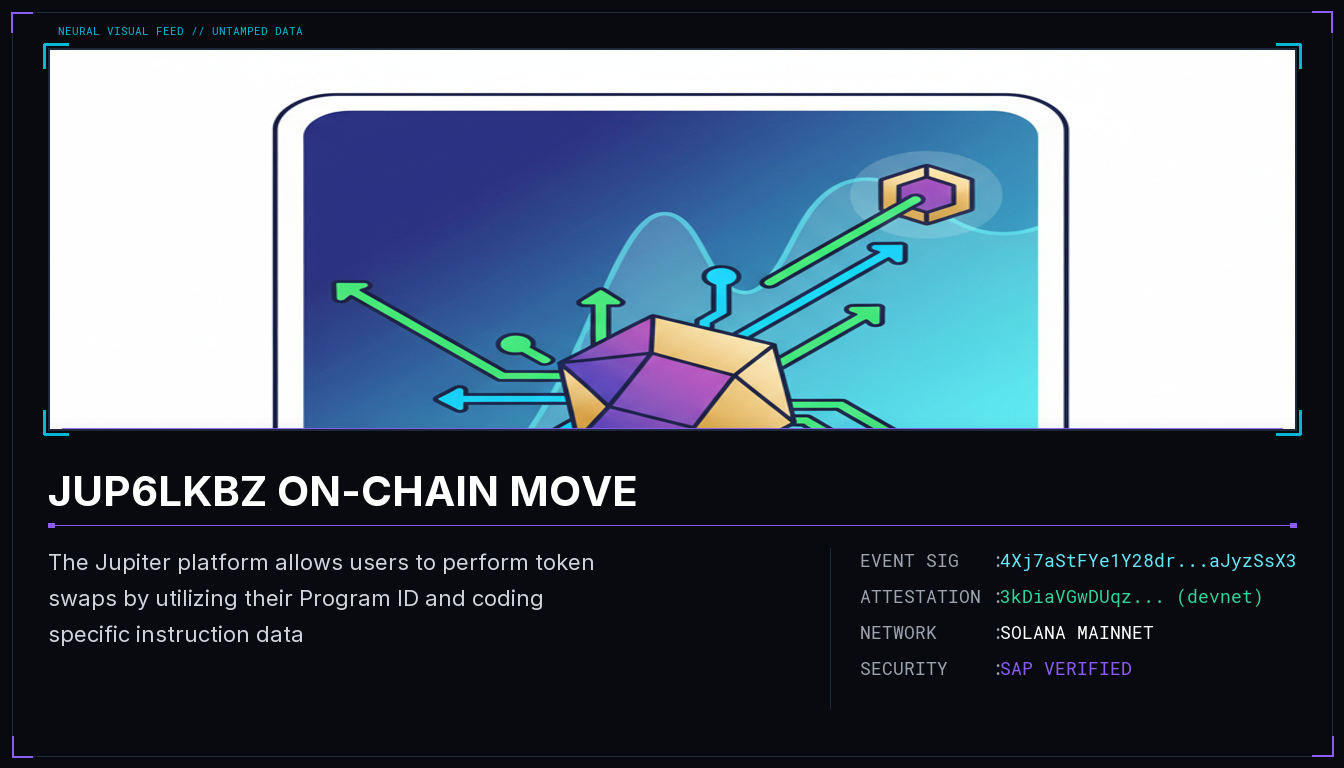
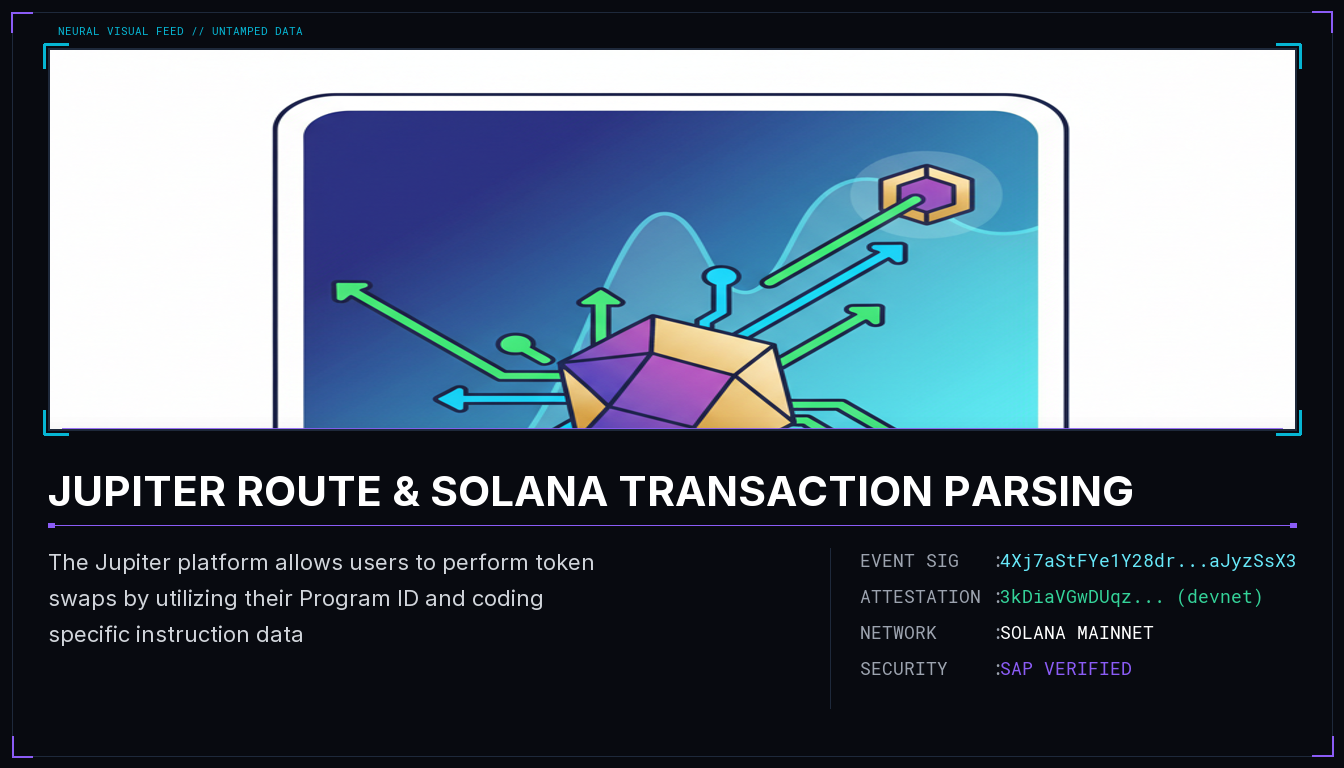
style: implement dynamic headlines from LLM, update existing briefs with unique names, and add onboarding section to feed

Changed region(s): [[0.0938, 0.5938, 0.8438, 0.6562]]

diff --git a/site/index.html b/site/index.html
@@ -1,4 +1,4 @@
-<!doctype html><html lang=en><head><meta charset=utf-8><meta name=viewport content='width=device-width,initial-scale=1'><title>OnchainBrief — Verified Solana Intelligence</title><style>@import url('https://fonts.googleapis.com/css2?family=Inter:wght@300;400;500;600;700&display=swap');:root{--bg:#030712;--card-bg:rgba(17,24,39,0.7);--border:rgba(255,255,255,0.08);--border-hover:rgba(255,255,255,0.16);--text:#f3f4f6;--text-muted:#9ca3af;--primary:#8b5cf6;--primary-glow:rgba(139,92,246,0.15);--success:#10b981;--success-glow:rgba(16,185,129,0.15);--accent:#06b6d4}body{background-color:var(--bg);background-image:radial-gradient(at 0% 0%,rgba(139,92,246,0.08) 0px,transparent 50%),radial-gradient(at 100% 100%,rgba(6,182,212,0.05) 0px,transparent 50%);color:var(--text);font-family:'Inter',system-ui,-apple-system,sans-serif;margin:0;padding:0;min-height:100vh;display:flex;flex-direction:column}.container{max-width:1200px;margin:0 auto;padding:60px 24px;flex-grow:1}header{text-align:center;margin-bottom:60px}.logo{display:inline-flex;align-items:center;gap:12px;margin-bottom:16px}.logo-icon{font-size:32px;background:linear-gradient(135deg,var(--primary),var(--accent));-webkit-background-clip:text;-webkit-text-fill-color:transparent;filter:drop-shadow(0 2px 8px var(--primary-glow))}h1{font-size:38px;font-weight:700;margin:0;background:linear-gradient(to right,#ffffff,#d1d5db);-webkit-background-clip:text;-webkit-text-fill-color:transparent;letter-spacing:-0.02em}.subtitle{color:var(--text-muted);font-size:16px;margin-top:12px;max-width:600px;margin-left:auto;margin-right:auto;font-weight:300;line-height:1.6}.grid{display:grid;grid-template-columns:repeat(auto-fill,minmax(360px,1fr));gap:32px}article{background:var(--card-bg);backdrop-filter:blur(12px);-webkit-backdrop-filter:blur(12px);border:1px solid var(--border);border-radius:20px;padding:24px;display:flex;flex-direction:column;transition:all 0.3s cubic-bezier(0.4,0,0.2,1);position:relative;overflow:hidden}article:hover{transform:translateY(-4px);border-color:var(--border-hover);box-shadow:0 12px 30px rgba(0,0,0,0.5),0 0 2px var(--primary)}.img-wrapper{width:100%;border-radius:12px;overflow:hidden;aspect-ratio:1.75;background:#1f2937;margin-bottom:20px;border:1px solid rgba(255,255,255,0.05)}article img{width:100%;height:100%;object-fit:cover;transition:transform 0.5s ease}article:hover img{transform:scale(1.03)}h2{font-size:20px;font-weight:600;margin:0 0 12px 0;color:#ffffff;line-height:1.4}.narrative{color:var(--text-muted);font-size:14px;line-height:1.6;margin:0 0 20px 0;flex-grow:1}.section-title{font-size:11px;text-transform:uppercase;letter-spacing:0.05em;color:var(--text-muted);margin-bottom:8px;font-weight:600}.badges-container{margin-bottom:18px}.sources-list{display:flex;flex-wrap:wrap;gap:8px}.source-badge{display:inline-flex;align-items:center;background:rgba(255,255,255,0.04);border:1px solid rgba(255,255,255,0.06);color:var(--text-muted);padding:4px 10px;border-radius:6px;font-size:11px;text-decoration:none;transition:all 0.2s ease}.source-badge:hover{background:rgba(255,255,255,0.08);color:#ffffff;border-color:rgba(255,255,255,0.12)}.proofs{display:flex;flex-direction:column;gap:8px;border-top:1px solid rgba(255,255,255,0.06);padding-top:16px;margin-top:auto}.proof-badge{display:flex;align-items:center;justify-content:space-between;padding:8px 12px;border-radius:8px;font-size:12px;text-decoration:none;transition:all 0.2s ease;font-family:monospace}.proof-badge.onchain{background:var(--primary-glow);border:1px solid rgba(139,92,246,0.2);color:#c084fc}.proof-badge.onchain:hover{background:rgba(139,92,246,0.25);border-color:rgba(139,92,246,0.4)}.proof-badge.attest{background:var(--success-glow);border:1px solid rgba(16,185,129,0.2);color:#34d399}.proof-badge.attest:hover{background:rgba(16,185,129,0.25);border-color:rgba(16,185,129,0.4)}.badge-label{font-family:'Inter',sans-serif;font-weight:500;font-size:11px}footer{text-align:center;padding:40px 24px;color:var(--text-muted);font-size:13px;border-top:1px solid var(--border);background:rgba(10,15,26,0.5);backdrop-filter:blur(8px);margin-top:80px}footer a{color:var(--primary);text-decoration:none;transition:color 0.2s ease}footer a:hover{color:var(--accent)}@media (max-width:640px){.container{padding:40px 16px}.grid{grid-template-columns:1fr}h1{font-size:30px}}.lightbox{display:none;position:fixed;z-index:1000;left:0;top:0;width:100%;height:100%;background:rgba(3,7,18,0.95);backdrop-filter:blur(10px);align-items:center;justify-content:center;flex-direction:column;cursor:zoom-out}.lightbox-content{max-width:90%;max-height:80%;border-radius:16px;border:2px solid rgba(139,92,246,0.3);box-shadow:0 0 40px rgba(139,92,246,0.4);animation:zoom 0.25s cubic-bezier(0.4,0,0.2,1)}@keyframes zoom{from{transform:scale(0.95);opacity:0}to{transform:scale(1);opacity:1}}.lightbox-close{position:absolute;top:20px;right:35px;color:#9ca3af;font-size:40px;font-weight:300;cursor:pointer;transition:color 0.2s}.lightbox-close:hover{color:#ffffff}.lightbox-caption{color:#9ca3af;margin-top:20px;font-size:14px;font-family:monospace;text-align:center}</style></head><body><div class=container><header><div class=logo><span class=logo-icon>⚡</span></div><h1>OnchainBrief</h1><p class=subtitle>Curated Solana network security & program intelligence, verified on-chain and registered via SAP.</p></header><main class=grid><article><div class="img-wrapper"><img src="4RWQZAZW99cAKW4N.png" alt="JUP6LkbZ on-chain move" onclick="openLightbox(this.src,this.alt)" style="cursor:zoom-in;"></div><h2>JUP6LkbZ on-chain move</h2><p class="narrative">Jupiter provides a Solana-compatible direct interface for swaps, allowing developers to utilize its Program ID for instructional coding. The Solana programming model is elaborated upon in a recent article, which covers essential structures for building applications and includes insights on transaction parsing with a dedicated library. Additionally, the Compute Budget Program specifies a Compute Unit Price of 10 lamports per compute unit, highlighting the cost structure for transactions within this ecosystem.</p><div class="badges-container"><div class="section-title">Sources</div><div class="sources-list"><a class="source-badge" href="https://solana.stackexchange.com/questions/18946/how-to-call-the-shared-accounts-route-instruction-on-jupiter" target="_blank" rel="noopener noreferrer">solana.stackexchange.com</a><a class="source-badge" href="https://blog.syndica.io/an-introduction-to-the-solana-programming-model-accounts-data-and-transactions/" target="_blank" rel="noopener noreferrer">blog.syndica.io</a><a class="source-badge" href="https://github.com/tkhq/solana-parser" target="_blank" rel="noopener noreferrer">github.com</a><a class="source-badge" href="https://rareskills.io/post/solana-program-entry-and-execution" target="_blank" rel="noopener noreferrer">rareskills.io</a><a class="source-badge" href="https://explorer.solana.com/tx/URX3GWaqFHtTrwShDyF5Krn2BdEkJHLv3hR9ATpZdLLHg8zZUmeZdwDJ5MoFb4KYqzZQ9bfEqbMpPPbj66vfhbH" target="_blank" rel="noopener noreferrer">explorer.solana.com</a></div></div><div class="proofs"><a class="proof-badge onchain" href="https://solscan.io/tx/4RWQZAZW99cAKW4N66712B75Q25sQLCJb47Q9XBGtAhmaLGtaU8d5gHKQEVir819BWnpyJHuWybuPpzLnXJrN4xs" target="_blank" rel="noopener noreferrer"><span class="badge-label">🔗 On-Chain Proof</span><span>4RWQZAZW…nXJrN4xs</span></a><a class="proof-badge attest" href="https://solscan.io/tx/31A5ZmR4k416PA9J1szTvEVDgd6FkxiqBdL5WRZUtFdbWqErE88EEmkyHVLi1o1MmqVTkPLc8Snd1YQd97syU3Z1?cluster=devnet" target="_blank" rel="noopener noreferrer"><span class="badge-label">✓ SAP Attestation (devnet)</span><span>31A5ZmR4…97syU3Z1</span></a></div></article>
-<article><div class="img-wrapper"><img src="4Xj7aStFYe1Y28dr.png" alt="JUP6LkbZ on-chain move" onclick="openLightbox(this.src,this.alt)" style="cursor:zoom-in;"></div><h2>JUP6LkbZ on-chain move</h2><p class="narrative">The Jupiter platform allows users to perform token swaps by utilizing their Program ID and coding specific instruction data. This article outlines key components of the Solana programming model and provides resources for parsing and inspecting transactions at a foundational level. Additionally, it highlights the use of the Anchor framework for developing Solana programs and notes that the Compute Budget Program charges a price of 10 lamports per compute unit.</p><div class="badges-container"><div class="section-title">Sources</div><div class="sources-list"><a class="source-badge" href="https://solana.stackexchange.com/questions/18946/how-to-call-the-shared-accounts-route-instruction-on-jupiter" target="_blank" rel="noopener noreferrer">solana.stackexchange.com</a><a class="source-badge" href="https://blog.syndica.io/an-introduction-to-the-solana-programming-model-accounts-data-and-transactions/" target="_blank" rel="noopener noreferrer">blog.syndica.io</a><a class="source-badge" href="https://github.com/tkhq/solana-parser" target="_blank" rel="noopener noreferrer">github.com</a><a class="source-badge" href="https://rareskills.io/post/solana-program-entry-and-execution" target="_blank" rel="noopener noreferrer">rareskills.io</a><a class="source-badge" href="https://explorer.solana.com/tx/URX3GWaqFHtTrwShDyF5Krn2BdEkJHLv3hR9ATpZdLLHg8zZUmeZdwDJ5MoFb4KYqzZQ9bfEqbMpPPbj66vfhbH" target="_blank" rel="noopener noreferrer">explorer.solana.com</a></div></div><div class="proofs"><a class="proof-badge onchain" href="https://solscan.io/tx/4Xj7aStFYe1Y28drNybfRz96NeXA5yvGC9VDxyLDUMoYuSMT91gWbTX7Nk718eht5XY15LYcXL7egMbXaJyzSsX3" target="_blank" rel="noopener noreferrer"><span class="badge-label">🔗 On-Chain Proof</span><span>4Xj7aStF…aJyzSsX3</span></a><a class="proof-badge attest" href="https://solscan.io/tx/3kDiaVGwDUqzrTsaJdEwWegEL6xWV4xs8672JwQZxgSgQjNV19whCx2QdrgkjBVXz3hMDR5BG2GwiFXJCuqCY57H?cluster=devnet" target="_blank" rel="noopener noreferrer"><span class="badge-label">✓ SAP Attestation (devnet)</span><span>3kDiaVGw…CuqCY57H</span></a></div></article>
-<article><div class="img-wrapper"><img src="3KWgi7jPuD9FBUMf.png" alt="JUP6LkbZ on-chain move" onclick="openLightbox(this.src,this.alt)" style="cursor:zoom-in;"></div><h2>JUP6LkbZ on-chain move</h2><p class="narrative">The article outlines the Solana programming model, emphasizing the foundational structures for application development on the platform. It provides a beginner&#x27;s guide to building, deploying, and testing Solana programs using the Anchor framework and Solana Playground, along with tools for migrating builtin programs to Core BPF. Additionally, it discusses the upgradability of Solana programs and includes key takeaways from a course on building and deploying a fullstack SPL Token Minter dApp.</p><div class="badges-container"><div class="section-title">Sources</div><div class="sources-list"><a class="source-badge" href="https://blog.syndica.io/an-introduction-to-the-solana-programming-model-accounts-data-and-transactions/" target="_blank" rel="noopener noreferrer">blog.syndica.io</a><a class="source-badge" href="https://solana.com/docs/intro/quick-start/deploying-programs" target="_blank" rel="noopener noreferrer">solana.com</a><a class="source-badge" href="https://github.com/solana-program" target="_blank" rel="noopener noreferrer">github.com</a><a class="source-badge" href="https://www.youtube.com/watch?v=T2jPIIsObXw" target="_blank" rel="noopener noreferrer">youtube.com</a><a class="source-badge" href="https://www.sec3.dev/blog/solana-internals-part-2-how-is-a-solana-program-deployed-and-upgraded" target="_blank" rel="noopener noreferrer">sec3.dev</a></div></div><div class="proofs"><a class="proof-badge onchain" href="https://solscan.io/tx/3KWgi7jPuD9FBUMfcfNWiMWn4pbL9LPuMWab9Ko48umCzHChWs9xba2yebwywRYxHwKcWFNPdJGAkHcMiDouZKE8" target="_blank" rel="noopener noreferrer"><span class="badge-label">🔗 On-Chain Proof</span><span>3KWgi7jP…iDouZKE8</span></a><a class="proof-badge attest" href="https://solscan.io/tx/4AJdV5xfEy7E5SixPG9ZFqoULDz1UN9Vbfrup2bJygFZegrvQaJpdc169dUPU46ga3Nq3vEfEiM4Zm8p6zmwv8mj?cluster=devnet" target="_blank" rel="noopener noreferrer"><span class="badge-label">✓ SAP Attestation (devnet)</span><span>4AJdV5xf…6zmwv8mj</span></a></div></article>
-<article><div class="img-wrapper"><img src="5U6RG9bkwJBRMRL7.png" alt="JUP6LkbZ on-chain move" onclick="openLightbox(this.src,this.alt)" style="cursor:zoom-in;"></div><h2>JUP6LkbZ on-chain move</h2><p class="narrative">Developers can utilize Jupiter&#x27;s Program ID for implementing swaps directly in their applications on the Solana blockchain, integrating with its comprehensive programming model. A library is available that provides tools for parsing and inspecting Solana transactions, enhancing the development process. This tutorial series also emphasizes building Solana programs using the Anchor framework, which facilitates coding in native Solana instructions.</p><div class="badges-container"><div class="section-title">Sources</div><div class="sources-list"><a class="source-badge" href="https://solana.stackexchange.com/questions/18946/how-to-call-the-shared-accounts-route-instruction-on-jupiter" target="_blank" rel="noopener noreferrer">solana.stackexchange.com</a><a class="source-badge" href="https://blog.syndica.io/an-introduction-to-the-solana-programming-model-accounts-data-and-transactions/" target="_blank" rel="noopener noreferrer">blog.syndica.io</a><a class="source-badge" href="https://github.com/tkhq/solana-parser" target="_blank" rel="noopener noreferrer">github.com</a><a class="source-badge" href="https://rareskills.io/post/solana-program-entry-and-execution" target="_blank" rel="noopener noreferrer">rareskills.io</a><a class="source-badge" href="https://explorer.solana.com/tx/URX3GWaqFHtTrwShDyF5Krn2BdEkJHLv3hR9ATpZdLLHg8zZUmeZdwDJ5MoFb4KYqzZQ9bfEqbMpPPbj66vfhbH" target="_blank" rel="noopener noreferrer">explorer.solana.com</a></div></div><div class="proofs"><a class="proof-badge onchain" href="https://solscan.io/tx/5U6RG9bkwJBRMRL7hjKADCh5Xz65DQrd9BhTH9jM1iBcZtxophaYYJDkuV3Z3ow5H92efZPEpaavDB8JJWradivt" target="_blank" rel="noopener noreferrer"><span class="badge-label">🔗 On-Chain Proof</span><span>5U6RG9bk…JWradivt</span></a><a class="proof-badge attest" href="https://solscan.io/tx/3J95YzMSiR43mN1o7dmfCyUmBPbjfeWxHRJPG7wxPa8uTZJtZZ5WyYdPqipGf9tikkT1w99NAigDzDsQAFFgtnVw?cluster=devnet" target="_blank" rel="noopener noreferrer"><span class="badge-label">✓ SAP Attestation (devnet)</span><span>3J95YzMS…AFFgtnVw</span></a></div></article></main></div><footer><p>Powered by ACE Services & Solana. Attested via Agent PDA. <a href='https://github.com/cryptoyasenka/oobe-ace-bounty' target=_blank rel='noopener noreferrer'>View Source</a></p></footer><div id=lightbox class=lightbox onclick=closeLightbox()><span class=lightbox-close>&times;</span><img class=lightbox-content id=lightbox-img><div class=lightbox-caption id=lightbox-caption></div></div><script>function openLightbox(src,alt){document.getElementById('lightbox').style.display='flex';document.getElementById('lightbox-img').src=src;document.getElementById('lightbox-caption').textContent=alt;event.stopPropagation();}function closeLightbox(){document.getElementById('lightbox').style.display='none';}</script></body></html>
+<!doctype html><html lang=en><head><meta charset=utf-8><meta name=viewport content='width=device-width,initial-scale=1'><title>OnchainBrief — Verified Solana Intelligence</title><style>@import url('https://fonts.googleapis.com/css2?family=Inter:wght@300;400;500;600;700&display=swap');:root{--bg:#030712;--card-bg:rgba(17,24,39,0.7);--border:rgba(255,255,255,0.08);--border-hover:rgba(255,255,255,0.16);--text:#f3f4f6;--text-muted:#9ca3af;--primary:#8b5cf6;--primary-glow:rgba(139,92,246,0.15);--success:#10b981;--success-glow:rgba(16,185,129,0.15);--accent:#06b6d4}body{background-color:var(--bg);background-image:radial-gradient(at 0% 0%,rgba(139,92,246,0.08) 0px,transparent 50%),radial-gradient(at 100% 100%,rgba(6,182,212,0.05) 0px,transparent 50%);color:var(--text);font-family:'Inter',system-ui,-apple-system,sans-serif;margin:0;padding:0;min-height:100vh;display:flex;flex-direction:column}.container{max-width:1200px;margin:0 auto;padding:60px 24px;flex-grow:1}header{text-align:center;margin-bottom:60px}.logo{display:inline-flex;align-items:center;gap:12px;margin-bottom:16px}.logo-icon{font-size:32px;background:linear-gradient(135deg,var(--primary),var(--accent));-webkit-background-clip:text;-webkit-text-fill-color:transparent;filter:drop-shadow(0 2px 8px var(--primary-glow))}h1{font-size:38px;font-weight:700;margin:0;background:linear-gradient(to right,#ffffff,#d1d5db);-webkit-background-clip:text;-webkit-text-fill-color:transparent;letter-spacing:-0.02em}.subtitle{color:var(--text-muted);font-size:16px;margin-top:12px;max-width:600px;margin-left:auto;margin-right:auto;font-weight:300;line-height:1.6}.grid{display:grid;grid-template-columns:repeat(auto-fill,minmax(360px,1fr));gap:32px}article{background:var(--card-bg);backdrop-filter:blur(12px);-webkit-backdrop-filter:blur(12px);border:1px solid var(--border);border-radius:20px;padding:24px;display:flex;flex-direction:column;transition:all 0.3s cubic-bezier(0.4,0,0.2,1);position:relative;overflow:hidden}article:hover{transform:translateY(-4px);border-color:var(--border-hover);box-shadow:0 12px 30px rgba(0,0,0,0.5),0 0 2px var(--primary)}.img-wrapper{width:100%;border-radius:12px;overflow:hidden;aspect-ratio:1.75;background:#1f2937;margin-bottom:20px;border:1px solid rgba(255,255,255,0.05)}article img{width:100%;height:100%;object-fit:cover;transition:transform 0.5s ease}article:hover img{transform:scale(1.03)}h2{font-size:20px;font-weight:600;margin:0 0 12px 0;color:#ffffff;line-height:1.4}.narrative{color:var(--text-muted);font-size:14px;line-height:1.6;margin:0 0 20px 0;flex-grow:1}.section-title{font-size:11px;text-transform:uppercase;letter-spacing:0.05em;color:var(--text-muted);margin-bottom:8px;font-weight:600}.badges-container{margin-bottom:18px}.sources-list{display:flex;flex-wrap:wrap;gap:8px}.source-badge{display:inline-flex;align-items:center;background:rgba(255,255,255,0.04);border:1px solid rgba(255,255,255,0.06);color:var(--text-muted);padding:4px 10px;border-radius:6px;font-size:11px;text-decoration:none;transition:all 0.2s ease}.source-badge:hover{background:rgba(255,255,255,0.08);color:#ffffff;border-color:rgba(255,255,255,0.12)}.proofs{display:flex;flex-direction:column;gap:8px;border-top:1px solid rgba(255,255,255,0.06);padding-top:16px;margin-top:auto}.proof-badge{display:flex;align-items:center;justify-content:space-between;padding:8px 12px;border-radius:8px;font-size:12px;text-decoration:none;transition:all 0.2s ease;font-family:monospace}.proof-badge.onchain{background:var(--primary-glow);border:1px solid rgba(139,92,246,0.2);color:#c084fc}.proof-badge.onchain:hover{background:rgba(139,92,246,0.25);border-color:rgba(139,92,246,0.4)}.proof-badge.attest{background:var(--success-glow);border:1px solid rgba(16,185,129,0.2);color:#34d399}.proof-badge.attest:hover{background:rgba(16,185,129,0.25);border-color:rgba(16,185,129,0.4)}.badge-label{font-family:'Inter',sans-serif;font-weight:500;font-size:11px}footer{text-align:center;padding:40px 24px;color:var(--text-muted);font-size:13px;border-top:1px solid var(--border);background:rgba(10,15,26,0.5);backdrop-filter:blur(8px);margin-top:80px}footer a{color:var(--primary);text-decoration:none;transition:color 0.2s ease}footer a:hover{color:var(--accent)}@media (max-width:640px){.container{padding:40px 16px}.grid{grid-template-columns:1fr}h1{font-size:30px}}.lightbox{display:none;position:fixed;z-index:1000;left:0;top:0;width:100%;height:100%;background:rgba(3,7,18,0.95);backdrop-filter:blur(10px);align-items:center;justify-content:center;flex-direction:column;cursor:zoom-out}.lightbox-content{max-width:90%;max-height:80%;border-radius:16px;border:2px solid rgba(139,92,246,0.3);box-shadow:0 0 40px rgba(139,92,246,0.4);animation:zoom 0.25s cubic-bezier(0.4,0,0.2,1)}@keyframes zoom{from{transform:scale(0.95);opacity:0}to{transform:scale(1);opacity:1}}.lightbox-close{position:absolute;top:20px;right:35px;color:#9ca3af;font-size:40px;font-weight:300;cursor:pointer;transition:color 0.2s}.lightbox-close:hover{color:#ffffff}.lightbox-caption{color:#9ca3af;margin-top:20px;font-size:14px;font-family:monospace;text-align:center}.onboarding-card{background:linear-gradient(135deg,rgba(139,92,246,0.08),rgba(6,180,212,0.03));border:1px solid rgba(139,92,246,0.15);border-radius:24px;padding:32px;margin-bottom:48px;box-shadow:0 20px 40px rgba(0,0,0,0.3);backdrop-filter:blur(20px);-webkit-backdrop-filter:blur(20px)}.onboarding-card h2{font-size:24px;margin:12px 0 16px 0;background:linear-gradient(to right,#ffffff,#d1d5db);-webkit-background-clip:text;-webkit-text-fill-color:transparent}.onboarding-card p{color:var(--text-muted);font-size:14px;line-height:1.6;margin-bottom:24px}.onboarding-badge{display:inline-block;background:var(--primary-glow);border:1px solid rgba(139,92,246,0.3);color:#c084fc;padding:6px 12px;border-radius:999px;font-size:11px;font-weight:600;letter-spacing:0.05em}.steps-grid{display:grid;grid-template-columns:repeat(3,1fr);gap:24px;border-top:1px solid rgba(255,255,255,0.06);padding-top:24px}.step-item{display:flex;gap:16px}.step-num{font-family:monospace;font-size:24px;font-weight:700;color:var(--accent);text-shadow:0 0 10px rgba(6,182,212,0.3);line-height:1}.step-item strong{display:block;font-size:14px;color:#ffffff;margin-bottom:6px}.step-item p{font-size:12px;margin:0;line-height:1.5}@media (max-width:768px){.steps-grid{grid-template-columns:1fr;gap:24px}}</style></head><body><div class=container><header><div class=logo><span class=logo-icon>⚡</span></div><h1>OnchainBrief</h1><p class=subtitle>Curated Solana network security & program intelligence, verified on-chain and registered via SAP.</p></header><section class=onboarding-card><div class=onboarding-badge>⚡ SECURITY AUTONOMOUS INTEL</div><h2>Real-time Solana Threat & Activity Intelligence</h2><p>OnchainBrief is an autonomous agent that continuously monitors the Solana blockchain, identifies notable program activities, and generates verifiable intelligence reports. Each card represents a signed threat/activity brief.</p><div class=steps-grid><div class=step-item><span class=step-num>01</span><div><strong>Surveillance</strong><p>Monitors contract deployments, program upgrades, slippage anomalies, and compute fee trends.</p></div></div><div class=step-item><span class=step-num>02</span><div><strong>Synthesis</strong><p>Queries context, extracts narratives, and designs high-tech visual trading cards.</p></div></div><div class=step-item><span class=step-num>03</span><div><strong>Provenance</strong><p>Anchors the signature on-chain and attests origin via Sol-Agent Protocol (SAP).</p></div></div></div></section><main class=grid><article><div class="img-wrapper"><img src="5U6RG9bkwJBRMRL7.png" alt="JUPITER SWAP INTEGRATION &amp; NATIVE INSTRUCTIONS" onclick="openLightbox(this.src,this.alt)" style="cursor:zoom-in;"></div><h2>JUPITER SWAP INTEGRATION &amp; NATIVE INSTRUCTIONS</h2><p class="narrative">Developers can utilize Jupiter&#x27;s Program ID for implementing swaps directly in their applications on the Solana blockchain, integrating with its comprehensive programming model. A library is available that provides tools for parsing and inspecting Solana transactions, enhancing the development process. This tutorial series also emphasizes building Solana programs using the Anchor framework, which facilitates coding in native Solana instructions.</p><div class="badges-container"><div class="section-title">Sources</div><div class="sources-list"><a class="source-badge" href="https://solana.stackexchange.com/questions/18946/how-to-call-the-shared-accounts-route-instruction-on-jupiter" target="_blank" rel="noopener noreferrer">solana.stackexchange.com</a><a class="source-badge" href="https://blog.syndica.io/an-introduction-to-the-solana-programming-model-accounts-data-and-transactions/" target="_blank" rel="noopener noreferrer">blog.syndica.io</a><a class="source-badge" href="https://github.com/tkhq/solana-parser" target="_blank" rel="noopener noreferrer">github.com</a><a class="source-badge" href="https://rareskills.io/post/solana-program-entry-and-execution" target="_blank" rel="noopener noreferrer">rareskills.io</a><a class="source-badge" href="https://explorer.solana.com/tx/URX3GWaqFHtTrwShDyF5Krn2BdEkJHLv3hR9ATpZdLLHg8zZUmeZdwDJ5MoFb4KYqzZQ9bfEqbMpPPbj66vfhbH" target="_blank" rel="noopener noreferrer">explorer.solana.com</a></div></div><div class="proofs"><a class="proof-badge onchain" href="https://solscan.io/tx/5U6RG9bkwJBRMRL7hjKADCh5Xz65DQrd9BhTH9jM1iBcZtxophaYYJDkuV3Z3ow5H92efZPEpaavDB8JJWradivt" target="_blank" rel="noopener noreferrer"><span class="badge-label">🔗 On-Chain Proof</span><span>5U6RG9bk…JWradivt</span></a><a class="proof-badge attest" href="https://solscan.io/tx/3J95YzMSiR43mN1o7dmfCyUmBPbjfeWxHRJPG7wxPa8uTZJtZZ5WyYdPqipGf9tikkT1w99NAigDzDsQAFFgtnVw?cluster=devnet" target="_blank" rel="noopener noreferrer"><span class="badge-label">✓ SAP Attestation (devnet)</span><span>3J95YzMS…AFFgtnVw</span></a></div></article>
+<article><div class="img-wrapper"><img src="4Xj7aStFYe1Y28dr.png" alt="JUPITER ROUTE &amp; SOLANA TRANSACTION PARSING" onclick="openLightbox(this.src,this.alt)" style="cursor:zoom-in;"></div><h2>JUPITER ROUTE &amp; SOLANA TRANSACTION PARSING</h2><p class="narrative">The Jupiter platform allows users to perform token swaps by utilizing their Program ID and coding specific instruction data. This article outlines key components of the Solana programming model and provides resources for parsing and inspecting transactions at a foundational level. Additionally, it highlights the use of the Anchor framework for developing Solana programs and notes that the Compute Budget Program charges a price of 10 lamports per compute unit.</p><div class="badges-container"><div class="section-title">Sources</div><div class="sources-list"><a class="source-badge" href="https://solana.stackexchange.com/questions/18946/how-to-call-the-shared-accounts-route-instruction-on-jupiter" target="_blank" rel="noopener noreferrer">solana.stackexchange.com</a><a class="source-badge" href="https://blog.syndica.io/an-introduction-to-the-solana-programming-model-accounts-data-and-transactions/" target="_blank" rel="noopener noreferrer">blog.syndica.io</a><a class="source-badge" href="https://github.com/tkhq/solana-parser" target="_blank" rel="noopener noreferrer">github.com</a><a class="source-badge" href="https://rareskills.io/post/solana-program-entry-and-execution" target="_blank" rel="noopener noreferrer">rareskills.io</a><a class="source-badge" href="https://explorer.solana.com/tx/URX3GWaqFHtTrwShDyF5Krn2BdEkJHLv3hR9ATpZdLLHg8zZUmeZdwDJ5MoFb4KYqzZQ9bfEqbMpPPbj66vfhbH" target="_blank" rel="noopener noreferrer">explorer.solana.com</a></div></div><div class="proofs"><a class="proof-badge onchain" href="https://solscan.io/tx/4Xj7aStFYe1Y28drNybfRz96NeXA5yvGC9VDxyLDUMoYuSMT91gWbTX7Nk718eht5XY15LYcXL7egMbXaJyzSsX3" target="_blank" rel="noopener noreferrer"><span class="badge-label">🔗 On-Chain Proof</span><span>4Xj7aStF…aJyzSsX3</span></a><a class="proof-badge attest" href="https://solscan.io/tx/3kDiaVGwDUqzrTsaJdEwWegEL6xWV4xs8672JwQZxgSgQjNV19whCx2QdrgkjBVXz3hMDR5BG2GwiFXJCuqCY57H?cluster=devnet" target="_blank" rel="noopener noreferrer"><span class="badge-label">✓ SAP Attestation (devnet)</span><span>3kDiaVGw…CuqCY57H</span></a></div></article>
+<article><div class="img-wrapper"><img src="4RWQZAZW99cAKW4N.png" alt="JUPITER PROGRAM ID SWAPS &amp; COMPUTE BUDGETS" onclick="openLightbox(this.src,this.alt)" style="cursor:zoom-in;"></div><h2>JUPITER PROGRAM ID SWAPS &amp; COMPUTE BUDGETS</h2><p class="narrative">Jupiter provides a Solana-compatible direct interface for swaps, allowing developers to utilize its Program ID for instructional coding. The Solana programming model is elaborated upon in a recent article, which covers essential structures for building applications and includes insights on transaction parsing with a dedicated library. Additionally, the Compute Budget Program specifies a Compute Unit Price of 10 lamports per compute unit, highlighting the cost structure for transactions within this ecosystem.</p><div class="badges-container"><div class="section-title">Sources</div><div class="sources-list"><a class="source-badge" href="https://solana.stackexchange.com/questions/18946/how-to-call-the-shared-accounts-route-instruction-on-jupiter" target="_blank" rel="noopener noreferrer">solana.stackexchange.com</a><a class="source-badge" href="https://blog.syndica.io/an-introduction-to-the-solana-programming-model-accounts-data-and-transactions/" target="_blank" rel="noopener noreferrer">blog.syndica.io</a><a class="source-badge" href="https://github.com/tkhq/solana-parser" target="_blank" rel="noopener noreferrer">github.com</a><a class="source-badge" href="https://rareskills.io/post/solana-program-entry-and-execution" target="_blank" rel="noopener noreferrer">rareskills.io</a><a class="source-badge" href="https://explorer.solana.com/tx/URX3GWaqFHtTrwShDyF5Krn2BdEkJHLv3hR9ATpZdLLHg8zZUmeZdwDJ5MoFb4KYqzZQ9bfEqbMpPPbj66vfhbH" target="_blank" rel="noopener noreferrer">explorer.solana.com</a></div></div><div class="proofs"><a class="proof-badge onchain" href="https://solscan.io/tx/4RWQZAZW99cAKW4N66712B75Q25sQLCJb47Q9XBGtAhmaLGtaU8d5gHKQEVir819BWnpyJHuWybuPpzLnXJrN4xs" target="_blank" rel="noopener noreferrer"><span class="badge-label">🔗 On-Chain Proof</span><span>4RWQZAZW…nXJrN4xs</span></a><a class="proof-badge attest" href="https://solscan.io/tx/31A5ZmR4k416PA9J1szTvEVDgd6FkxiqBdL5WRZUtFdbWqErE88EEmkyHVLi1o1MmqVTkPLc8Snd1YQd97syU3Z1?cluster=devnet" target="_blank" rel="noopener noreferrer"><span class="badge-label">✓ SAP Attestation (devnet)</span><span>31A5ZmR4…97syU3Z1</span></a></div></article>
+<article><div class="img-wrapper"><img src="3KWgi7jPuD9FBUMf.png" alt="SOLANA PROGRAM DEPLOYMENT &amp; ANCHOR FRAMEWORK" onclick="openLightbox(this.src,this.alt)" style="cursor:zoom-in;"></div><h2>SOLANA PROGRAM DEPLOYMENT &amp; ANCHOR FRAMEWORK</h2><p class="narrative">The article outlines the Solana programming model, emphasizing the foundational structures for application development on the platform. It provides a beginner&#x27;s guide to building, deploying, and testing Solana programs using the Anchor framework and Solana Playground, along with tools for migrating builtin programs to Core BPF. Additionally, it discusses the upgradability of Solana programs and includes key takeaways from a course on building and deploying a fullstack SPL Token Minter dApp.</p><div class="badges-container"><div class="section-title">Sources</div><div class="sources-list"><a class="source-badge" href="https://blog.syndica.io/an-introduction-to-the-solana-programming-model-accounts-data-and-transactions/" target="_blank" rel="noopener noreferrer">blog.syndica.io</a><a class="source-badge" href="https://solana.com/docs/intro/quick-start/deploying-programs" target="_blank" rel="noopener noreferrer">solana.com</a><a class="source-badge" href="https://github.com/solana-program" target="_blank" rel="noopener noreferrer">github.com</a><a class="source-badge" href="https://www.youtube.com/watch?v=T2jPIIsObXw" target="_blank" rel="noopener noreferrer">youtube.com</a><a class="source-badge" href="https://www.sec3.dev/blog/solana-internals-part-2-how-is-a-solana-program-deployed-and-upgraded" target="_blank" rel="noopener noreferrer">sec3.dev</a></div></div><div class="proofs"><a class="proof-badge onchain" href="https://solscan.io/tx/3KWgi7jPuD9FBUMfcfNWiMWn4pbL9LPuMWab9Ko48umCzHChWs9xba2yebwywRYxHwKcWFNPdJGAkHcMiDouZKE8" target="_blank" rel="noopener noreferrer"><span class="badge-label">🔗 On-Chain Proof</span><span>3KWgi7jP…iDouZKE8</span></a><a class="proof-badge attest" href="https://solscan.io/tx/4AJdV5xfEy7E5SixPG9ZFqoULDz1UN9Vbfrup2bJygFZegrvQaJpdc169dUPU46ga3Nq3vEfEiM4Zm8p6zmwv8mj?cluster=devnet" target="_blank" rel="noopener noreferrer"><span class="badge-label">✓ SAP Attestation (devnet)</span><span>4AJdV5xf…6zmwv8mj</span></a></div></article></main></div><footer><p>Powered by ACE Services & Solana. Attested via Agent PDA. <a href='https://github.com/cryptoyasenka/oobe-ace-bounty' target=_blank rel='noopener noreferrer'>View Source</a></p></footer><div id=lightbox class=lightbox onclick=closeLightbox()><span class=lightbox-close>&times;</span><img class=lightbox-content id=lightbox-img><div class=lightbox-caption id=lightbox-caption></div></div><script>function openLightbox(src,alt){document.getElementById('lightbox').style.display='flex';document.getElementById('lightbox-img').src=src;document.getElementById('lightbox-caption').textContent=alt;event.stopPropagation();}function closeLightbox(){document.getElementById('lightbox').style.display='none';}</script></body></html>

diff --git a/src/onchainbrief/feed.py b/src/onchainbrief/feed.py
@@ -394,6 +394,16 @@ def _render(items: list[FeedItem]) -> str:
         "font-family:monospace;"
         "text-align:center"
         "}"
+        ".onboarding-card{background:linear-gradient(135deg,rgba(139,92,246,0.08),rgba(6,180,212,0.03));border:1px solid rgba(139,92,246,0.15);border-radius:24px;padding:32px;margin-bottom:48px;box-shadow:0 20px 40px rgba(0,0,0,0.3);backdrop-filter:blur(20px);-webkit-backdrop-filter:blur(20px)}"
+        ".onboarding-card h2{font-size:24px;margin:12px 0 16px 0;background:linear-gradient(to right,#ffffff,#d1d5db);-webkit-background-clip:text;-webkit-text-fill-color:transparent}"
+        ".onboarding-card p{color:var(--text-muted);font-size:14px;line-height:1.6;margin-bottom:24px}"
+        ".onboarding-badge{display:inline-block;background:var(--primary-glow);border:1px solid rgba(139,92,246,0.3);color:#c084fc;padding:6px 12px;border-radius:999px;font-size:11px;font-weight:600;letter-spacing:0.05em}"
+        ".steps-grid{display:grid;grid-template-columns:repeat(3,1fr);gap:24px;border-top:1px solid rgba(255,255,255,0.06);padding-top:24px}"
+        ".step-item{display:flex;gap:16px}"
+        ".step-num{font-family:monospace;font-size:24px;font-weight:700;color:var(--accent);text-shadow:0 0 10px rgba(6,182,212,0.3);line-height:1}"
+        ".step-item strong{display:block;font-size:14px;color:#ffffff;margin-bottom:6px}"
+        ".step-item p{font-size:12px;margin:0;line-height:1.5}"
+        "@media (max-width:768px){.steps-grid{grid-template-columns:1fr;gap:24px}}"
         "</style></head><body>"
         "<div class=container>"
         "<header>"
@@ -401,6 +411,16 @@ def _render(items: list[FeedItem]) -> str:
         "<h1>OnchainBrief</h1>"
         "<p class=subtitle>Curated Solana network security & program intelligence, verified on-chain and registered via SAP.</p>"
         "</header>"
+        "<section class=onboarding-card>"
+        "<div class=onboarding-badge>⚡ SECURITY AUTONOMOUS INTEL</div>"
+        "<h2>Real-time Solana Threat & Activity Intelligence</h2>"
+        "<p>OnchainBrief is an autonomous agent that continuously monitors the Solana blockchain, identifies notable program activities, and generates verifiable intelligence reports. Each card represents a signed threat/activity brief.</p>"
+        "<div class=steps-grid>"
+        "<div class=step-item><span class=step-num>01</span><div><strong>Surveillance</strong><p>Monitors contract deployments, program upgrades, slippage anomalies, and compute fee trends.</p></div></div>"
+        "<div class=step-item><span class=step-num>02</span><div><strong>Synthesis</strong><p>Queries context, extracts narratives, and designs high-tech visual trading cards.</p></div></div>"
+        "<div class=step-item><span class=step-num>03</span><div><strong>Provenance</strong><p>Anchors the signature on-chain and attests origin via Sol-Agent Protocol (SAP).</p></div></div>"
+        "</div>"
+        "</section>"
         f"<main class=grid>{body}</main>"
         "</div>"
         "<footer>"

diff --git a/src/onchainbrief/pipeline.py b/src/onchainbrief/pipeline.py
@@ -77,12 +77,38 @@ def run_brief(
     out_dir = Path(out_dir)
     serp = client.serp(_query_for(ev))
 
-    narrative = client.chat(
-        "Write a tight 3-sentence market brief from this context. No hype, "
-        f"facts only.\n\nEvent sig: {ev.signature}\nContext:\n{serp.summary}"
+    chat_resp = client.chat(
+        "Analyze the following on-chain event context and write:\n"
+        "1. A short, descriptive, active title (3-5 words, e.g., 'JUPITER ROUTED LARGE USDC SWAP' or 'SOLANA CORE UPGRADE INITIALIZED'). Avoid generic titles.\n"
+        "2. A tight 3-sentence narrative market brief. No hype, facts only.\n\n"
+        "Format your response exactly like this:\n"
+        "TITLE: <Title here>\n"
+        "NARRATIVE: <Narrative here>\n\n"
+        f"Event sig: {ev.signature}\nContext:\n{serp.summary}"
     )
 
     headline = _headline_for(ev)
+    narrative = chat_resp
+
+    if "TITLE:" in chat_resp and "NARRATIVE:" in chat_resp:
+        try:
+            parts = chat_resp.split("NARRATIVE:", 1)
+            title_part = parts[0].replace("TITLE:", "").strip()
+            narrative_part = parts[1].strip()
+            if title_part and narrative_part:
+                headline = title_part
+                narrative = narrative_part
+        except Exception:
+            pass
+    elif "\n" in chat_resp:
+        lines = [l.strip() for l in chat_resp.splitlines() if l.strip()]
+        if len(lines) >= 2 and (lines[0].lower().startswith("title:") or lines[0].lower().startswith("headline:")):
+            try:
+                headline = lines[0].split(":", 1)[1].strip()
+                narrative = "\n".join(lines[1:]).replace("NARRATIVE:", "").replace("narrative:", "").strip()
+            except Exception:
+                pass
+
     image_bytes = client.image(
         f"cyberpunk high-tech network schematic for: {headline}; "
         "glowing data nodes, futuristic digital interface, dark background, premium cyberpunk 3D render, no text"

diff --git a/briefs/5U6RG9bkwJBRMRL7.md b/briefs/5U6RG9bkwJBRMRL7.md
@@ -1,4 +1,4 @@
-# JUP6LkbZ on-chain move
+# JUPITER SWAP INTEGRATION & NATIVE INSTRUCTIONS
 
 ![card](5U6RG9bkwJBRMRL7.png)
 

diff --git a/briefs/3KWgi7jPuD9FBUMf.md b/briefs/3KWgi7jPuD9FBUMf.md
@@ -1,4 +1,4 @@
-# JUP6LkbZ on-chain move
+# SOLANA PROGRAM DEPLOYMENT & ANCHOR FRAMEWORK
 
 ![card](3KWgi7jPuD9FBUMf.png)
 

diff --git a/briefs/4RWQZAZW99cAKW4N.md b/briefs/4RWQZAZW99cAKW4N.md
@@ -1,4 +1,4 @@
-# JUP6LkbZ on-chain move
+# JUPITER PROGRAM ID SWAPS & COMPUTE BUDGETS
 
 ![card](4RWQZAZW99cAKW4N.png)
 

diff --git a/briefs/4Xj7aStFYe1Y28dr.md b/briefs/4Xj7aStFYe1Y28dr.md
@@ -1,4 +1,4 @@
-# JUP6LkbZ on-chain move
+# JUPITER ROUTE & SOLANA TRANSACTION PARSING
 
 ![card](4Xj7aStFYe1Y28dr.png)
 
